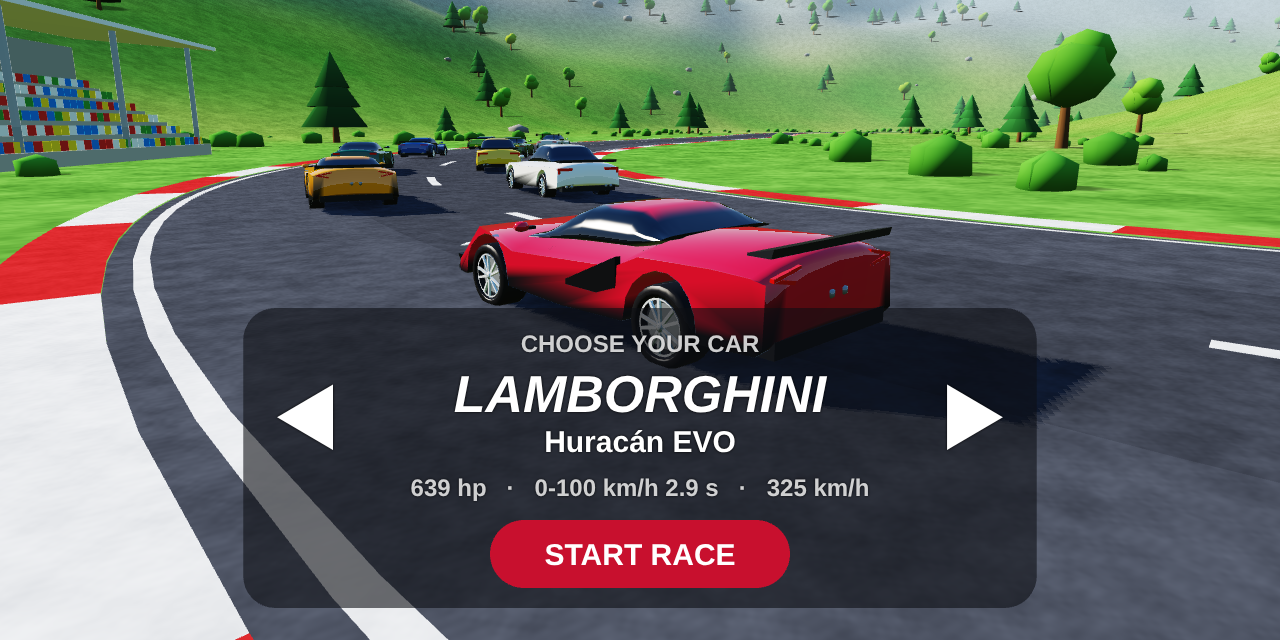
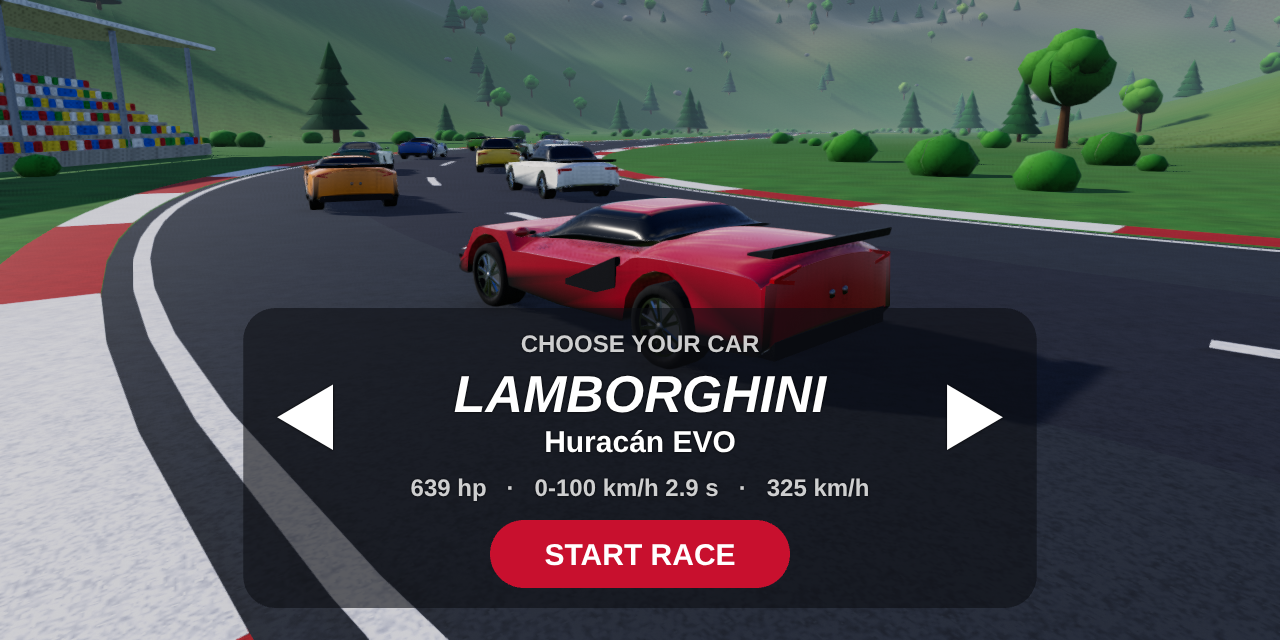
Enable AndroidX for Filament's dependencies; README, previews and asset tests
Claude-Session: https://claude.ai/code/session_01PALYvBmcq9tb4KfgW5X3kT

diff --git a/app/src/test/java/com/titovpower/racegame/GameLogicTest.kt b/app/src/test/java/com/titovpower/racegame/GameLogicTest.kt
@@ -273,4 +273,33 @@ class GameLogicTest {
         }
         assertTrue(zeroCrossings(6000f) > zeroCrossings(1500f) * 2)
     }
+
+    @Test
+    fun glbAssetsAreWellFormed() {
+        val b = MeshBuilder()
+        b.box(0f, 1f, 0f, 1f, 1f, 1f, Rgb(1f, 0f, 0f))
+        val glb = Glb.write(listOf(GlbPart("box", b.toArray()), GlbPart("ground", b.toArray(), Surfacing.GRASS)))
+        val buf = java.nio.ByteBuffer.wrap(glb).order(java.nio.ByteOrder.LITTLE_ENDIAN)
+        assertEquals(0x46546C67, buf.getInt(0)) // "glTF"
+        assertEquals(glb.size, buf.getInt(8))
+        val jsonLength = buf.getInt(12)
+        val json = String(glb, 20, jsonLength)
+        assertTrue(json.contains("\"name\":\"box\"") && json.contains("\"TEXCOORD_0\""))
+        // 36 indices into far fewer shared vertices (24 corners+normals, give or take rounding).
+        val vertices = Regex("\"count\":(\\d+),\"type\":\"VEC3\"").find(json)!!.groupValues[1].toInt()
+        assertTrue("$vertices vertices", vertices in 24..28)
+        assertTrue(json.contains("\"count\":36,\"type\":\"SCALAR\""))
+        val binLength = buf.getInt(20 + jsonLength)
+        assertEquals(glb.size, 20 + jsonLength + 8 + binLength)
+    }
+
+    @Test
+    fun skyLightIsBrighterFromAbove() {
+        val sh = SkyEnvironment.irradianceSh()
+        // Irradiance up (y = 1) vs. down: band 1 index 1 is the y term.
+        // Filament's polynomial form at n = (0, +-1, 0): sh0 +- sh1 - sh6 - sh8 (red channel).
+        val up = sh[0] + sh[3] - sh[18] - sh[24]
+        val down = sh[0] - sh[3] - sh[18] - sh[24]
+        assertTrue("up=$up down=$down", up > down && down > 0f)
+    }
 }

diff --git a/tools/preview/index.html b/tools/preview/index.html
@@ -76,7 +76,7 @@ async function main() {
   view.setMultiSampleAntiAliasingOptions({enabled: true, sampleCount: 4});
 
   const renderer = engine.createRenderer(), swap = engine.createSwapChain();
-  for (let k = 0; k < 4; k++) {
+  for (let k = 0; k < 24; k++) {
     await new Promise(r => requestAnimationFrame(r));
     if (renderer.beginFrame(swap)) { renderer.renderView(view); renderer.endFrame(); }
     engine.execute();
@@ -128,6 +128,13 @@ function overlay(frame) {
   const tw = g.measureText(frame.surface).width + 20 * d, top = 16*d + 40*d + 10*d;
   g.beginPath(); g.roundRect(16*d, top, tw, 15*d + 12*d, 8*d); g.fill();
   g.fillStyle = 'white'; g.fillText(frame.surface, 26*d, top + 15*d + 3*d);
+  // Rev bar, rpm and gear.
+  const bt = top + 15*d + 12*d + 10*d, bw = 150*d, bh = 8*d, fr = Math.min(1, frame.rpm / frame.redline);
+  g.fillStyle = 'rgba(0,0,0,0.43)'; g.beginPath(); g.roundRect(16*d, bt, bw, bh, bh/2); g.fill();
+  g.fillStyle = fr > 0.92 ? 'rgb(229,57,53)' : fr > 0.75 ? 'rgb(255,179,0)' : 'rgb(250,250,250)';
+  g.beginPath(); g.roundRect(16*d, bt, bw * fr, bh, bh/2); g.fill();
+  g.fillStyle = 'white'; g.fillText(String(frame.gear), 16*d + bw + 8*d, bt + bh + 2*d);
+  g.font = `bold ${12*d}px sans-serif`; g.fillText(`${Math.round(frame.rpm / 10) * 10} rpm`, 16*d, bt + bh + 16*d);
   // Position and lap, top right.
   g.textAlign = 'right'; g.shadowBlur = 4; g.shadowOffsetY = 2;
   g.font = `italic bold ${40*d}px sans-serif`; g.fillText(`P${frame.position}/${frame.standings.length}`, W - 16*d, 16*d + 40*d);

diff --git a/README.md b/README.md
@@ -9,7 +9,7 @@ track through grass, woods and hills, seen from a chase camera behind the car.
 ![YOU WIN after 5 laps](docs/win.png)
 ![The six cars](docs/cars.png)
 
-<sub>Screenshots are rendered from the game's own meshes and shader in headless Chromium (WebGL),
+<sub>Screenshots are rendered from the game's own assets with Filament's WebAssembly build in headless Chromium,
 see `tools/preview`. The steering wheel and HUD in them are an approximation of the Android overlay.</sub>
 
 ## Cars
@@ -56,24 +56,60 @@ and top speed drops below ~110 km/h (`Surface.STREET` / `Surface.GRASS` in `CarP
 On asphalt a car stops from 100 km/h in about 30 m.
 The HUD shows speed, the current ground type, position, lap and lap times.
 
+## Engine sound
+
+Each car has its engine layout (Lamborghini and Audi V10, Porsche flat-six, BMW inline-six,
+Mercedes-AMG and Aston Martin V8), its redline and number of gears. An automatic gearbox shifts
+up near the redline and down as you slow; the HUD shows a rev bar, rpm and gear. The sound is
+synthesized live from engine speed, throttle and layout (no recordings): the firing frequency and
+its harmonics give the pitch, a V8 gets its uneven-firing burble, throttle adds roar, and shifts
+cut in briefly. `gradle sound` in `tools/preview` renders a full-throttle run of each car to WAV.
+
+## Graphics
+
+Rendering uses [Filament](https://github.com/google/filament), Google's physically based
+rendering engine: PBR materials (clear-coated paint, glass, chrome, rubber), a sun with cascaded
+soft shadows, an HDR sky that lights the scene and reflects in the paint, ambient occlusion,
+bloom, distance fog, 4x MSAA and filmic tone mapping. The world and cars are still generated in
+code, then handed to Filament as glTF with tiling grass and asphalt textures.
+
+### Real car models
+
+The cars are procedural look-alikes. Real manufacturer models can't be shipped in this repo:
+the ones you find online (Sketchfab, game rips) are almost always under licenses that forbid
+redistribution, and brand designs are protected. If you have a model you're allowed to use,
+put it in the app as glTF binary and it replaces the generated body:
+
+| File | Replaces |
+|---|---|
+| `app/src/main/assets/models/cars/lambo.glb` | Lamborghini |
+| `app/src/main/assets/models/cars/911.glb` | Porsche |
+| `app/src/main/assets/models/cars/m4.glb` | BMW |
+| `app/src/main/assets/models/cars/amggt.glb` | Mercedes-AMG |
+| `app/src/main/assets/models/cars/r8.glb` | Audi |
+| `app/src/main/assets/models/cars/vantage.glb` | Aston Martin |
+
+The model should be in meters, nose towards +Z, Y up, origin on the ground under the car's
+center. It brings its own wheels (the generated ones are hidden), and every material with
+"paint" in its name gets the driver's color.
+
 ## Tech
 
-Plain Kotlin with OpenGL ES 2.0 (`GLSurfaceView`), no game engine and no third-party
-libraries. All geometry (terrain, track, trees, grandstand, car) is generated in code.
-Rendering: real-time sun shadows for the cars (a depth map packed into an RGBA texture,
-bilinear-filtered), per-pixel lighting in linear space with a filmic (ACES) tone curve,
-hemisphere ambient, specular highlights and Fresnel sky reflections on paint and glass,
-procedural grass and asphalt detail, a procedural sky with sun and clouds, and distance fog.
+Plain Kotlin, Filament for rendering, no game engine. All geometry (terrain, track, trees,
+grandstand, cars) is generated in code.
 
 | File | What it does |
 |---|---|
-| `MainActivity.kt` | Fullscreen landscape activity, GL view + control overlay |
-| `ControlOverlayView.kt` | Steering wheel touch control and HUD |
-| `Scene.kt` | Chase camera and the per-frame draw list (API independent) |
-| `GameRenderer.kt` | GL thread: simulation loop and OpenGL drawing |
-| `ShaderSource.kt` | GLSL scene shader and shadow-map shader |
+| `MainActivity.kt` | Fullscreen landscape activity: Filament surface + control overlay |
+| `ControlOverlayView.kt` | Steering wheel touch control, car picker and HUD |
+| `FilamentRenderer.kt` | Filament setup (lights, sky, post-processing), loads the glTF assets, frame loop |
+| `GameLoop.kt` | Steps the simulation each frame and publishes HUD values |
+| `Scene.kt` | Assets, chase camera and per-frame car/wheel transforms (engine independent) |
+| `Glb.kt` | Writes the procedural meshes as glTF with PBR materials and detail textures |
+| `SkyEnvironment.kt` | Procedural HDR sky: skybox, reflections and diffuse light |
 | `GameState.kt` | Race simulation: car choice, AI drivers, grid and countdown, collisions, laps, ranking |
-| `CarPhysics.kt` | Real car specs, vehicle dynamics and street/grass parameters |
+| `CarPhysics.kt` | Real car specs, vehicle dynamics, gearbox, street/grass parameters |
+| `EngineSound.kt` | Engine sound synthesis and audio streaming |
 | `World.kt`, `Track.kt` | Track shape, hills, trees, bushes, rocks, grandstand |
 | `CarModel.kt` | The six car styles: lofted bodies with wheel arches, grilles, lights, wings, exhausts |
 | `SceneMeshes.kt`, `MeshBuilder.kt` | Procedural world meshes and mesh helpers |

diff --git a/tools/preview/README.md b/tools/preview/README.md
@@ -1,15 +1,21 @@
 # Scene preview (no Android SDK needed)
 
-Renders the game's real meshes and GLSL shader in headless Chromium (WebGL 1 = GLSL ES 1.00).
+Renders the game's real glTF assets and sky with Filament's WebAssembly build (the same engine
+and version as the app) in headless Chromium, and renders the engine sound to WAV.
 
 ```sh
 cd tools/preview
+npm pack filament@1.53.4 && tar xzf filament-1.53.4.tgz && cp package/filament.js package/filament.wasm .
 gradle test                                  # gameplay unit tests on the desktop JVM
-gradle export -Pout=$PWD/build/street        # simulate a few seconds, export meshes + one frame
+gradle export -Pout=$PWD/build/street        # simulate a few seconds, export assets + one frame
 node render.js $PWD build/street street.png  # render it (needs Playwright + Chromium)
+gradle sound -Pout=$PWD/build/sound          # engine sound of each car, as WAV
 ```
 
-Environment variables for `export`: `PREVIEW_T` (seconds driven, default 6),
-`PREVIEW_GRASS=1` (steer off onto the grass at the end), `PREVIEW_BRAKE=1` (brake at the end),
-`PREVIEW_ORBIT=<degrees>` and `PREVIEW_DIST=<m>` (look at the car from around it instead of the chase camera).
-The HUD and steering wheel drawn in the preview are an HTML canvas approximation of `ControlOverlayView`.
+Environment variables for `export`: `PREVIEW_T` (seconds driven, default 6; 0 = car picker),
+`PREVIEW_CAR=<brand>` (pick that car), `PREVIEW_GRASS=1` (steer off onto the grass at the end),
+`PREVIEW_BRAKE=1` (brake at the end), `PREVIEW_WIN=1` (show the YOU WIN banner),
+`PREVIEW_ORBIT=<degrees>` and `PREVIEW_DIST=<m>` (look at the car from around it instead of the
+chase camera). The HUD and steering wheel drawn in the preview are an HTML canvas approximation
+of `ControlOverlayView`; filament.js 1.53 doesn't bind shadow options, so its shadows use
+Filament's defaults (the app uses 3 cascades of 2048 px).
